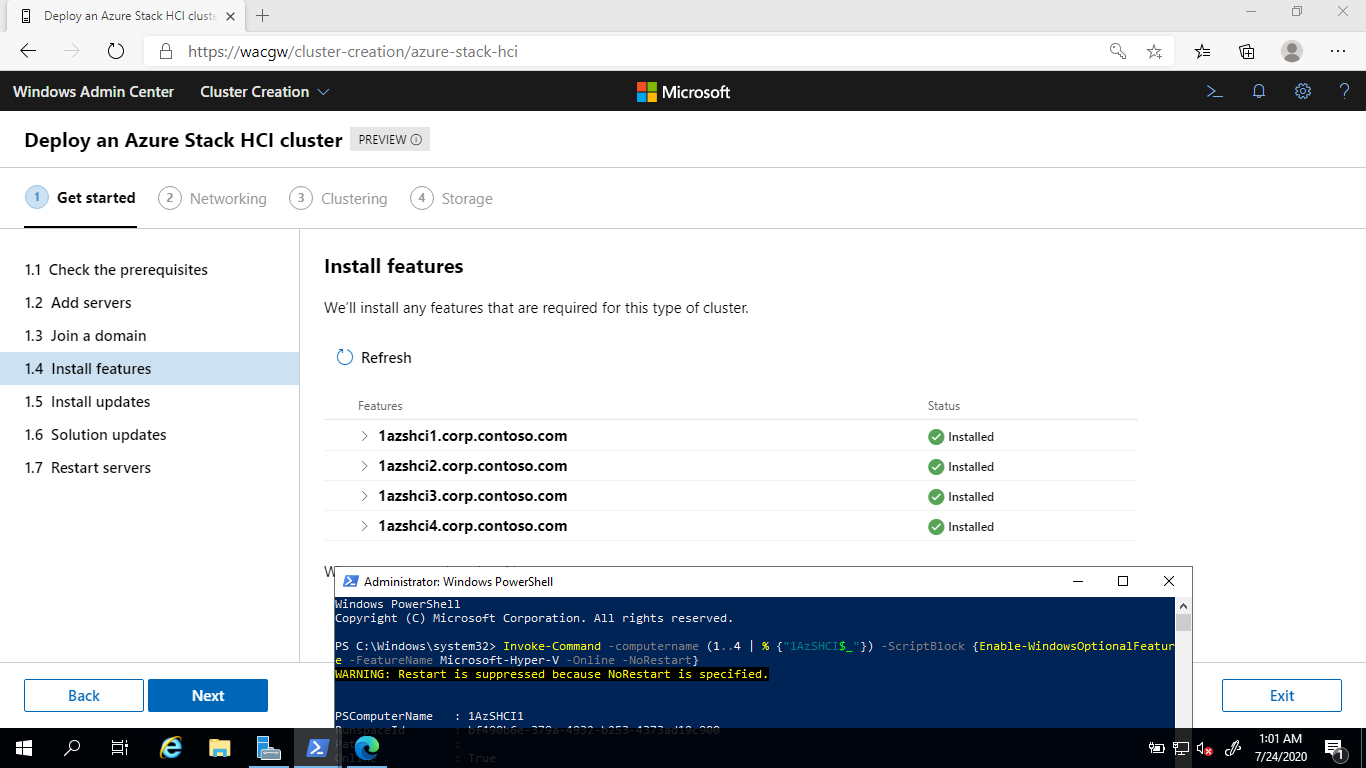
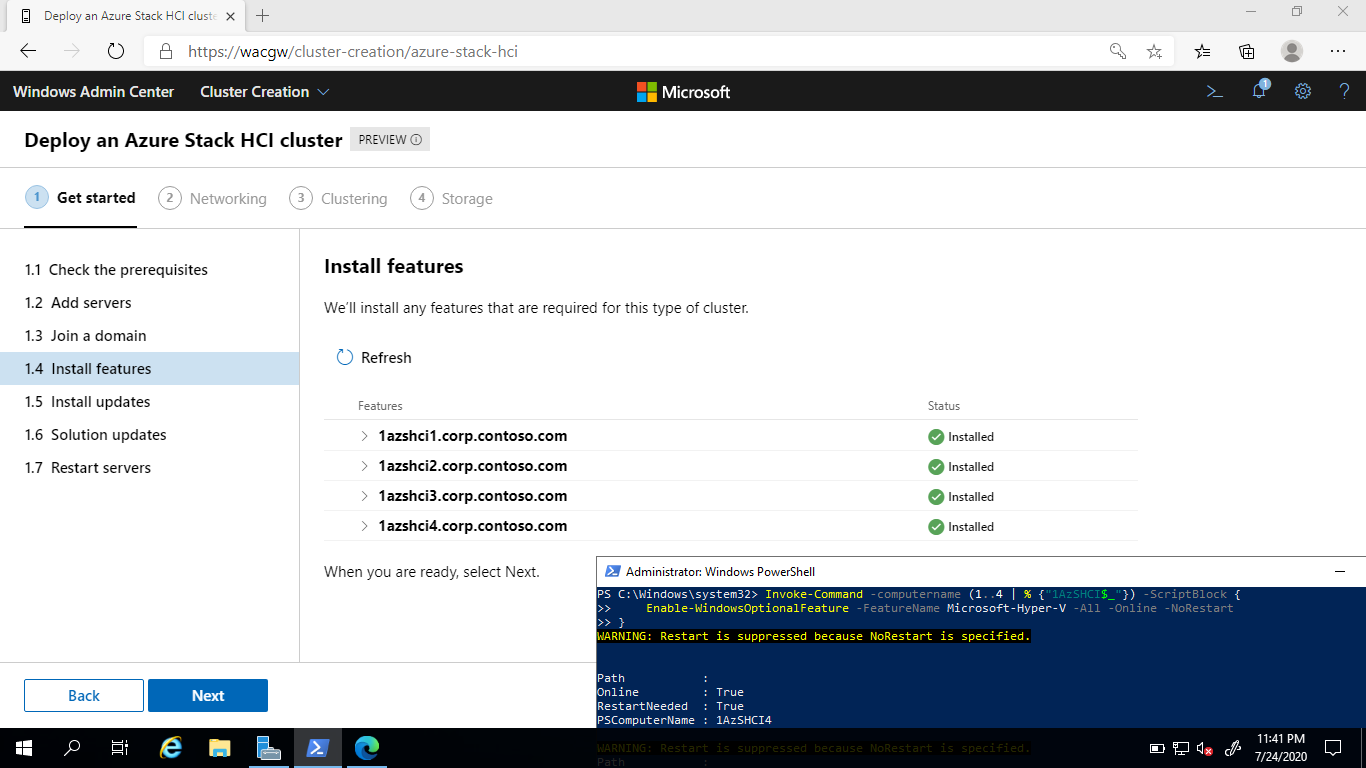
added screenshots

Changed region(s): [[0.246, 0.7188, 1.0, 1.0], [0.9224, 0.0938, 0.9531, 0.125]]

diff --git a/Scenarios/AzSHCI and Cluster Creation Extension/readme.md b/Scenarios/AzSHCI and Cluster Creation Extension/readme.md
@@ -23,7 +23,7 @@ Note: there is a known issue, that exposed virtualization extensions are not det
 ```powershell
 Invoke-Command -computername (1..4 | % {"1AzSHCI$_"}) -ScriptBlock {
     Enable-WindowsOptionalFeature -FeatureName Microsoft-Hyper-V -Online -NoRestart
-    Enable-WindowsOptionalFeature -FeatureName Microsoft-Hyper-V-Management-PowerShell -Online -NoRestart
+    Install-WindowsFeature -Name Hyper-V-PowerShell
 }
  
 ```
@@ -124,7 +124,7 @@ foreach ($computer in $computers){
     $computerObject = Get-ADComputer -Identity $computer
     Set-ADComputer -Identity $computerObject -PrincipalsAllowedToDelegateToAccount $gatewayObject
 }
-
+ 
 ```
 
 ### Or Install Windows Admin Center on Windows 10 machine
@@ -170,7 +170,7 @@ In Edge, navigate to https://wacgw. Log in with corp\LABAdmin LS1setup! credenti
 ```powershell
 Invoke-Command -computername (1..4 | % {"1AzSHCI$_"}) -ScriptBlock {
     Enable-WindowsOptionalFeature -FeatureName Microsoft-Hyper-V -Online -NoRestart
-    Enable-WindowsOptionalFeature -FeatureName Microsoft-Hyper-V-Management-PowerShell -Online -NoRestart
+    Install-WindowsFeature -Name Hyper-V-PowerShell
 }
  
 ```
@@ -190,3 +190,60 @@ Invoke-Command -computername (1..4 | % {"1AzSHCI$_"}) -ScriptBlock {
 ![](/Scenarios/AzSHCI%20and%20Cluster%20Creation%20Extension/Screenshots/WAC16.png)
 
 ![](/Scenarios/AzSHCI%20and%20Cluster%20Creation%20Extension/Screenshots/WAC17.png)
+
+![](/Scenarios/AzSHCI%20and%20Cluster%20Creation%20Extension/Screenshots/WAC18.png)
+
+![](/Scenarios/AzSHCI%20and%20Cluster%20Creation%20Extension/Screenshots/WAC19.png)
+
+![](/Scenarios/AzSHCI%20and%20Cluster%20Creation%20Extension/Screenshots/WAC20.png)
+
+![](/Scenarios/AzSHCI%20and%20Cluster%20Creation%20Extension/Screenshots/WAC21.png)
+
+![](/Scenarios/AzSHCI%20and%20Cluster%20Creation%20Extension/Screenshots/WAC22.png)
+
+![](/Scenarios/AzSHCI%20and%20Cluster%20Creation%20Extension/Screenshots/WAC23.png)
+
+![](/Scenarios/AzSHCI%20and%20Cluster%20Creation%20Extension/Screenshots/WAC24.png)
+
+![](/Scenarios/AzSHCI%20and%20Cluster%20Creation%20Extension/Screenshots/WAC25.png)
+
+![](/Scenarios/AzSHCI%20and%20Cluster%20Creation%20Extension/Screenshots/WAC26.png)
+
+![](/Scenarios/AzSHCI%20and%20Cluster%20Creation%20Extension/Screenshots/WAC27.png)
+
+![](/Scenarios/AzSHCI%20and%20Cluster%20Creation%20Extension/Screenshots/WAC28.png)
+
+![](/Scenarios/AzSHCI%20and%20Cluster%20Creation%20Extension/Screenshots/WAC29.png)
+
+![](/Scenarios/AzSHCI%20and%20Cluster%20Creation%20Extension/Screenshots/WAC30.png)
+
+![](/Scenarios/AzSHCI%20and%20Cluster%20Creation%20Extension/Screenshots/WAC31.png)
+
+![](/Scenarios/AzSHCI%20and%20Cluster%20Creation%20Extension/Screenshots/WAC32.png)
+
+![](/Scenarios/AzSHCI%20and%20Cluster%20Creation%20Extension/Screenshots/WAC33.png)
+
+![](/Scenarios/AzSHCI%20and%20Cluster%20Creation%20Extension/Screenshots/WAC34.png)
+
+![](/Scenarios/AzSHCI%20and%20Cluster%20Creation%20Extension/Screenshots/WAC35.png)
+
+![](/Scenarios/AzSHCI%20and%20Cluster%20Creation%20Extension/Screenshots/WAC36.png)
+
+![](/Scenarios/AzSHCI%20and%20Cluster%20Creation%20Extension/Screenshots/WAC37.png)
+
+![](/Scenarios/AzSHCI%20and%20Cluster%20Creation%20Extension/Screenshots/WAC38.png)
+
+```Powershell
+#Configure Resource-Based constrained delegation
+$gatewayServerName="WACGW"
+$gatewayObject = Get-ADComputer -Identity $GatewayServerName
+$computers = (Get-ADComputer -Filter *).Name
+
+foreach ($computer in $computers){
+    $computerObject = Get-ADComputer -Identity $computer
+    Set-ADComputer -Identity $computerObject -PrincipalsAllowedToDelegateToAccount $gatewayObject
+}
+ 
+```
+
+![](/Scenarios/AzSHCI%20and%20Cluster%20Creation%20Extension/Screenshots/WAC39.png)
